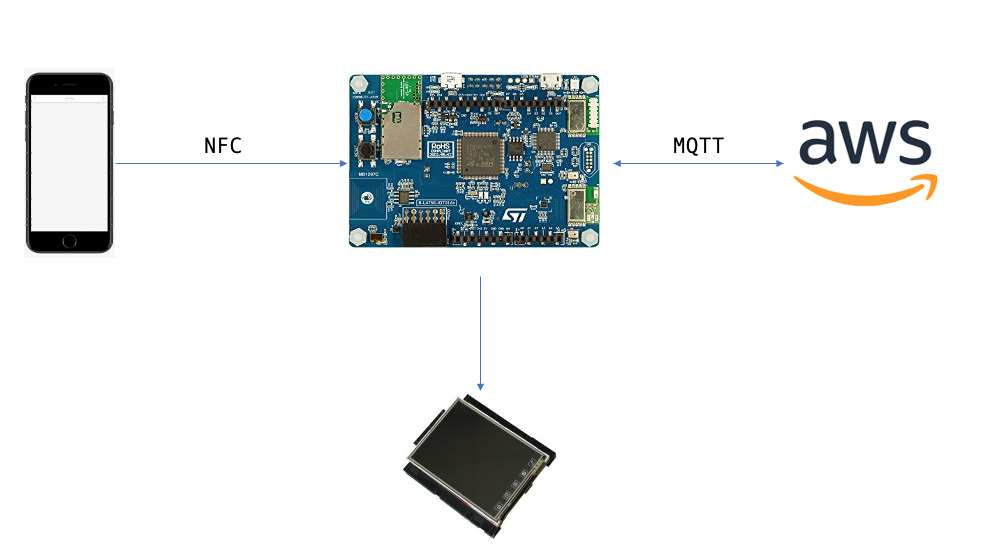
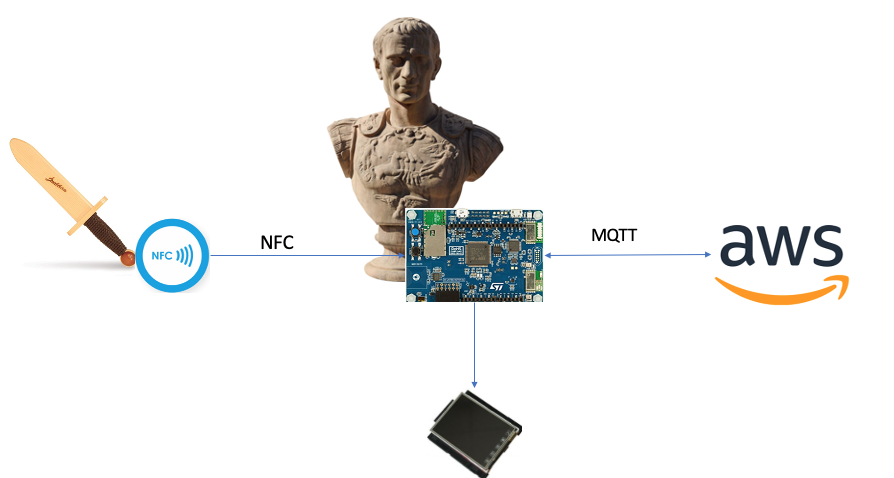
use of objects instead of app

diff --git a/2ndDelivery/Architecture.md b/2ndDelivery/Architecture.md
@@ -1,11 +1,13 @@
 # Architecture
 The following architecture is the one that we thought about for the project. At the end of this explanation you will find another architecture that is the one that we are going to implement due to a lack of resources. 
 
-## End-user component: a Smartphone App
+## End-user component: Objects with NFC tags
+
+We have some objects to interact with the statue. Every object has an NFC tag with an ID that can be read by the board. For each statue we have three objects, the first one is relevant to the statue (e.g. for a statue of Julio Caesar we might use a stab), and the other two are random objects. When the user reaches the statue with an object, the board reads the message to AWS and receives the correct image to show. If the object was the right one, the image will be a colorized version of the statue, otherwise we might have some funny images showing up. 
 
 The application writes on the NFC tag that is positioned on the statue. It's composed by a simple user interface that shows images of the statues and when the user taps on such image the app will show a pop up that tell the user to approach the board near the statue. 
 
-When the tag NFC is activated, it checks a code sent from the statue and if it is correct sends a message over MQTT to AWS platform with the id of the tag and a timestamp. 
+When the board read the tag, it checks the code and sends a message over MQTT to AWS platform with the id of the tag and a timestamp. 
 
 ## Cloud Infrastructure on Amazon Web Services 
 The cloud infrastructure is an MQTT broker that subscribes to the topic of the statue and publishes on another topic over the MQTT protocol. 
@@ -18,12 +20,12 @@ We use the cloud infratructure for two main purposes:
 The Internet of things element is an STM32 Nucleo Board. The board has an NFC tag reader that is activated through the smartphone application.
 The board has a wifi module that allows the connection to the internet. We expect to connect a display to the board to show the images of the statues. 
 ## High-level scheme
-Smartphone  <--NFC--> IoT Board <--MQTT--> AWS <--MQTT --> IoT Board\
+Object with Nfc Tag  <--NFC--> IoT Board <--MQTT--> AWS <--MQTT --> IoT Board\
 
 ![Architecture](https://github.com/federicoInserra/Big-Project-IoT/blob/master/photo/arch1.png)\
 
 # Evaluation Architecture
-Due to lack of resources we are going to try the code on a different architecture. The first part of the archiecture is the same, we have a smartphone application that writes on an NFC tag on the board and the board publishes a JSON message on the MQTT topic. The AWS reads this message and sends the image to a raspberry pi board. The aspberry pi is connected to a display and here we will see the image. 
+Due to lack of resources we are going to try the code on a different architecture. The first part of the archiecture is the same, we have a smartphone application, instead of objects, that writes on an NFC tag on the board and the board publishes a JSON message on the MQTT topic. The AWS reads this message and sends the image to a raspberry pi board. The raspberry pi is connected to a display that will show the image. 
 ## High-level scheme
 Smartphone  <--NFC--> IoT Board <--MQTT--> AWS <--MQTT --> Raspberry Pi\
 ![Architecture](https://github.com/federicoInserra/Big-Project-IoT/blob/master/photo/arch2.png)\
